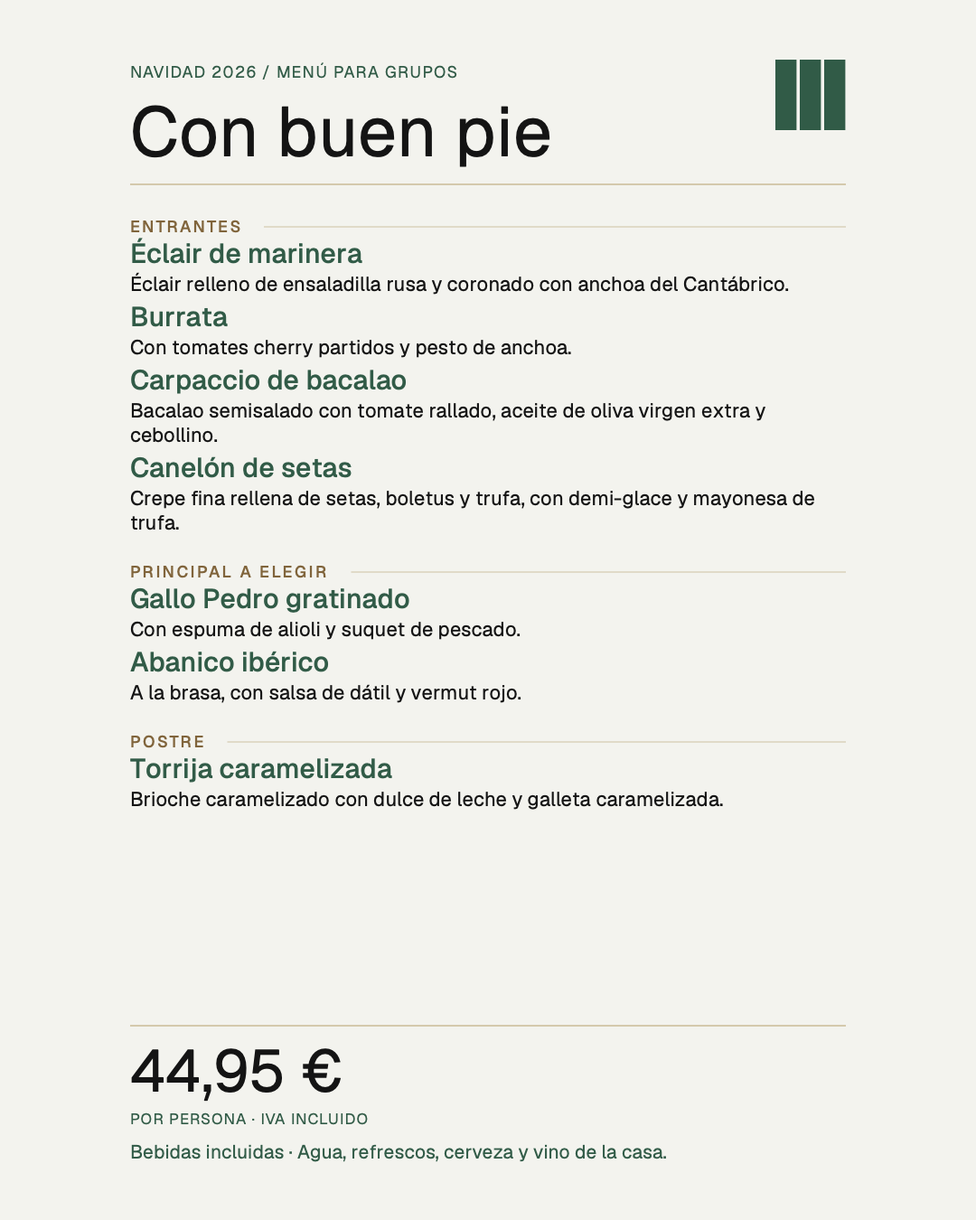
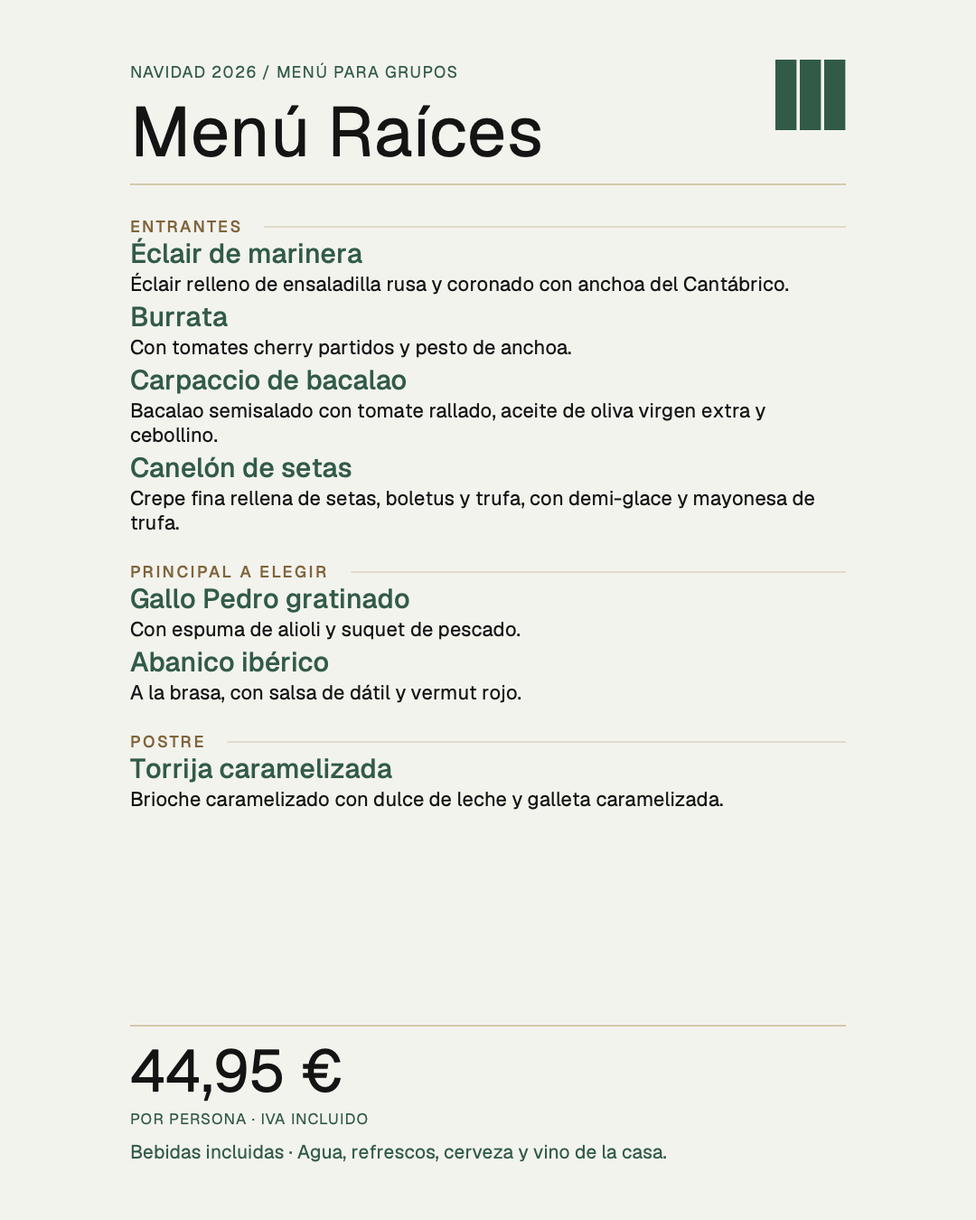
Preserve live December menus and Christmas performance during reservation release

Changed region(s): [[0.1222, 0.0622, 0.5806, 0.1556]]

diff --git a/experiencias/content.js b/experiencias/content.js
@@ -1,4 +1,4 @@
-const MENUS = {"navidad-02": {"id": "navidad-02", "title": "Con buen pie", "date": "NAVIDAD 2026 / MENÚ PARA GRUPOS", "sections": [{"title": "ENTRANTES", "dishes": [{"name": "Éclair de marinera", "description": "Éclair relleno de ensaladilla rusa y coronado con anchoa del Cantábrico."}, {"name": "Burrata", "description": "Con tomates cherry partidos y pesto de anchoa."}, {"name": "Carpaccio de bacalao", "description": "Bacalao semisalado con tomate rallado, aceite de oliva virgen extra y cebollino."}, {"name": "Canelón de setas", "description": "Crepe fina rellena de setas, boletus y trufa, con demi-glace y mayonesa de trufa."}]}, {"title": "PRINCIPAL A ELEGIR", "dishes": [{"name": "Gallo Pedro gratinado", "description": "Con espuma de alioli y suquet de pescado."}, {"name": "Abanico ibérico", "description": "A la brasa, con salsa de dátil y vermut rojo."}]}, {"title": "POSTRE", "dishes": [{"name": "Torrija caramelizada", "description": "Brioche caramelizado con dulce de leche y galleta caramelizada."}]}], "price": "44,95 €", "drinks": "Bebidas incluidas · Agua, refrescos, cerveza y vino de la casa."}, "navidad-03": {"id": "navidad-03", "title": "Un paso más", "date": "NAVIDAD 2026 / MENÚ PARA GRUPOS", "sections": [{"title": "APERITIVO DE BIENVENIDA", "dishes": [{"name": "El beso de bienvenida", "description": ""}, {"name": "Mini éclair de marinera", "description": ""}]}, {"title": "ENTRANTES", "dishes": [{"name": "Marisco hervido", "description": "Gamba blanca y quisquilla cocidas, servidas enteras."}, {"name": "Carpaccio de vaca madurada", "description": "Lomo alto laminado con cítricos, alcaparras, mostaza antigua y AOVE."}, {"name": "Burrata", "description": "Con tomates cherry partidos y pesto de anchoa."}, {"name": "Canelón de setas", "description": "Crepe fina rellena de setas, boletus y trufa, con demi-glace y mayonesa de trufa."}]}, {"title": "PRINCIPAL A ELEGIR", "dishes": [{"name": "Gallo Pedro gratinado", "description": "Con espuma de alioli y suquet de pescado."}, {"name": "Abanico ibérico", "description": "A la brasa, con salsa de dátil y vermut rojo."}]}, {"title": "POSTRE", "dishes": [{"name": "Brownie de algarroba", "description": "Con chocolate aromatizado con hoja de higuera."}]}], "price": "54,95 €", "drinks": "Bebidas incluidas · Agua, refrescos, cerveza y vino de la casa."}, "navidad-04": {"id": "navidad-04", "title": "Por todo lo alto", "date": "NAVIDAD 2026 / MENÚ PARA GRUPOS", "sections": [{"title": "APERITIVOS DE LA CASA", "dishes": [{"name": "El beso de bienvenida", "description": ""}, {"name": "Mini éclair de marinera", "description": ""}, {"name": "Nigiri de croissant", "description": ""}]}, {"title": "ENTRANTES", "dishes": [{"name": "Burrata", "description": "Con tomates cherry partidos y pesto de anchoa."}, {"name": "Carpaccio de vaca madurada", "description": "Lomo alto laminado con cítricos, alcaparras, mostaza antigua y AOVE."}, {"name": "Canelón de setas", "description": "Crepe fina rellena de setas, boletus y trufa, con demi-glace y mayonesa de trufa."}, {"name": "Erizo gratinado de marisco", "description": "Farsa cremosa de marisco gratinada en concha de erizo."}]}, {"title": "PRINCIPAL A ELEGIR", "dishes": [{"name": "Bacalao a baja temperatura", "description": "Lomo de bacalao cocinado suavemente sobre pisto de verduras de temporada."}, {"name": "Lingote de cordero", "description": "Cuello de cordero prensado sobre cuscús de calabaza, con su demi-glace y cebollitas glaseadas."}]}, {"title": "POSTRE", "dishes": [{"name": "Brownie de algarroba", "description": "Con chocolate aromatizado con hoja de higuera."}]}], "price": "64,95 €", "drinks": "Bebidas incluidas · Agua, refrescos, cerveza y vino de la casa."}, "navidad-individual": {"id": "navidad-individual", "title": "Menú degustación", "date": "DICIEMBRE / MESAS DE HASTA 6 PERSONAS", "sections": [{"title": "APERITIVOS DE LA CASA", "dishes": [{"name": "El beso de bienvenida", "description": "Paté de mejillón glaseado de piquillo sobre un chip de patata."}, {"name": "Chupachups de atún", "description": "Bocado de atún en semisalgazón y ñora, presentado en brocheta."}, {"name": "Nigiri de croissant", "description": "Croissant brioche con steak tartar de añojo, holandesa de hinojo y perlas de salmón."}]}, {"title": "LOS CUATRO PASES", "dishes": [{"name": "Canelón de setas", "description": "Crêpe fina rellena de setas, boletus y trufa, con demi-glace y mayonesa de trufa."}, {"name": "Gallo Pedro gratinado", "description": "Con espuma de alioli y suquet de pescado."}, {"name": "Abanico ibérico", "description": "A la brasa, con salsa de dátil y vermut rojo."}, {"name": "Brownie de algarroba", "description": "Con chocolate aromatizado con hoja de higuera."}]}], "price": "38,00 €", "drinks": "Bebidas no incluidas · Las bebidas se cobran aparte."}, "navidad-25-menu": {"id": "navidad-25-menu", "title": "Menú de Navidad", "date": "25 DE DICIEMBRE DE 2026", "sections": [{"title": "APERITIVOS DE LA CASA", "dishes": [{"name": "El beso de bienvenida", "description": "Mejillón y piquillo sobre chip de patata."}, {"name": "Mini éclair de marinera", "description": "Ensaladilla de merluza y anchoa."}, {"name": "Nigiri de croissant", "description": "Steak tartar, holandesa de hinojo y perlas de salmón."}]}, {"title": "MARISCO Y ENTRANTE CALIENTE", "dishes": [{"name": "Marisco hervido", "description": "Gamba blanca y quisquilla."}, {"name": "Alcachofa confitada", "description": "Sobre una base de ajo blanco, con atún en semisalazón."}]}, {"title": "EL TURRÓN SALADO", "dishes": [{"name": "Turrón de foie", "description": "Con almendra y manzana."}]}, {"title": "PUCHERO EN DOS VUELCOS", "dishes": [{"name": "Consomé de puchero con pelota", "description": ""}, {"name": "Garbanzos, carnes y verduras del puchero", "description": ""}]}, {"title": "POSTRE", "dishes": [{"name": "Brownie de algarroba", "description": "Chocolate con hoja de higuera."}]}], "price": "65,00 €", "drinks": "Bebidas incluidas · Agua, refrescos, cerveza y vino de la casa."}, "navidad-25-infantil": {"id": "navidad-25-infantil", "title": "Menú infantil", "date": "25 DE DICIEMBRE DE 2026", "sections": [{"title": "ENTRANTE FRÍO", "dishes": [{"name": "Almendras", "description": ""}, {"name": "Olivas", "description": ""}, {"name": "Patatas fritas", "description": ""}, {"name": "Jamón", "description": ""}, {"name": "Queso", "description": ""}]}, {"title": "ENTRANTE CALIENTE", "dishes": [{"name": "Calamares", "description": ""}, {"name": "Croquetas de jamón", "description": ""}, {"name": "Nuggets de pollo", "description": ""}, {"name": "Mini hamburguesas", "description": ""}]}, {"title": "POSTRE", "dishes": [{"name": "Coulant de chocolate", "description": ""}]}], "price": "28,00 €", "drinks": "Bebidas incluidas · Agua y refrescos."}, "ano-nuevo-menu": {"id": "ano-nuevo-menu", "title": "Menú de Año Nuevo", "date": "1 DE ENERO DE 2027", "sections": [{"title": "MARISCO", "dishes": [{"name": "Marisco hervido", "description": "Gamba blanca y quisquilla cocidas, servidas enteras."}]}, {"title": "ENTRANTES FRÍOS", "dishes": [{"name": "Carpaccio de bacalao", "description": "Bacalao semisalado con tomate rallado, aceite de oliva virgen extra y cebollino."}, {"name": "Ensalada de tomate y ventresca", "description": "Tomate maduro en dos cortes, lascas de ventresca, cebolla roja encurtida, alcaparras y vinagreta de sus jugos con AOVE y Jerez."}]}, {"title": "ENTRANTES CALIENTES", "dishes": [{"name": "Canelón crujiente de cordero", "description": "Cordero guisado y desmigado, envuelto en pasta filo crujiente."}, {"name": "Alcachofa confitada", "description": "Sobre una base de ajo blanco, con atún en semisalazón."}]}, {"title": "PRINCIPAL A ELEGIR", "dishes": [{"name": "Abanico ibérico o Gallo Pedro", "description": "Abanico ibérico a la brasa con salsa de dátil y vermut rojo, o Gallo Pedro gratinado con alioli y suquet."}]}, {"title": "POSTRE", "dishes": [{"name": "Flan cremoso de turrón", "description": "Flan de textura cremosa con turrón de almendra y su caramelo."}]}], "price": "50,00 €", "drinks": "Bebidas incluidas · Agua, refrescos, cerveza y vino."}, "ano-nuevo-infantil": {"id": "ano-nuevo-infantil", "title": "Menú infantil", "date": "1 DE ENERO DE 2027", "sections": [{"title": "ENTRANTE FRÍO", "dishes": [{"name": "Almendras", "description": ""}, {"name": "Olivas", "description": ""}, {"name": "Patatas fritas", "description": ""}, {"name": "Jamón", "description": ""}, {"name": "Queso", "description": ""}]}, {"title": "ENTRANTE CALIENTE", "dishes": [{"name": "Calamares", "description": ""}, {"name": "Croquetas de jamón", "description": ""}, {"name": "Nuggets de pollo", "description": ""}, {"name": "Mini hamburguesas", "description": ""}]}, {"title": "POSTRE", "dishes": [{"name": "Coulant de chocolate", "description": ""}]}], "price": "28,00 €", "drinks": "Bebidas incluidas · Agua y refrescos."}};
+const MENUS = {"navidad-02": {"id": "navidad-02", "title": "Menú Raíces", "date": "NAVIDAD 2026 / MENÚ PARA GRUPOS", "sections": [{"title": "ENTRANTES", "dishes": [{"name": "Éclair de marinera", "description": "Éclair relleno de ensaladilla rusa y coronado con anchoa del Cantábrico."}, {"name": "Burrata", "description": "Con tomates cherry partidos y pesto de anchoa."}, {"name": "Carpaccio de bacalao", "description": "Bacalao semisalado con tomate rallado, aceite de oliva virgen extra y cebollino."}, {"name": "Canelón de setas", "description": "Crepe fina rellena de setas, boletus y trufa, con demi-glace y mayonesa de trufa."}]}, {"title": "PRINCIPAL A ELEGIR", "dishes": [{"name": "Gallo Pedro gratinado", "description": "Con espuma de alioli y suquet de pescado."}, {"name": "Abanico ibérico", "description": "A la brasa, con salsa de dátil y vermut rojo."}]}, {"title": "POSTRE", "dishes": [{"name": "Torrija caramelizada", "description": "Brioche caramelizado con dulce de leche y galleta caramelizada."}]}], "price": "44,95 €", "drinks": "Bebidas incluidas · Agua, refrescos, cerveza y vino de la casa."}, "navidad-03": {"id": "navidad-03", "title": "Menú La Mesa", "date": "NAVIDAD 2026 / MENÚ PARA GRUPOS", "sections": [{"title": "APERITIVO DE BIENVENIDA", "dishes": [{"name": "El beso de bienvenida", "description": ""}, {"name": "Mini éclair de marinera", "description": ""}]}, {"title": "ENTRANTES", "dishes": [{"name": "Marisco hervido", "description": "Gamba blanca y quisquilla cocidas, servidas enteras."}, {"name": "Carpaccio de vaca madurada", "description": "Lomo alto laminado con cítricos, alcaparras, mostaza antigua y AOVE."}, {"name": "Burrata", "description": "Con tomates cherry partidos y pesto de anchoa."}, {"name": "Canelón de setas", "description": "Crepe fina rellena de setas, boletus y trufa, con demi-glace y mayonesa de trufa."}]}, {"title": "PRINCIPAL A ELEGIR", "dishes": [{"name": "Gallo Pedro gratinado", "description": "Con espuma de alioli y suquet de pescado."}, {"name": "Abanico ibérico", "description": "A la brasa, con salsa de dátil y vermut rojo."}]}, {"title": "POSTRE", "dishes": [{"name": "Brownie de algarroba", "description": "Con chocolate aromatizado con hoja de higuera."}]}], "price": "54,95 €", "drinks": "Bebidas incluidas · Agua, refrescos, cerveza y vino de la casa."}, "navidad-04": {"id": "navidad-04", "title": "Menú Brindis", "date": "NAVIDAD 2026 / MENÚ PARA GRUPOS", "sections": [{"title": "APERITIVOS DE LA CASA", "dishes": [{"name": "El beso de bienvenida", "description": ""}, {"name": "Mini éclair de marinera", "description": ""}, {"name": "Nigiri de croissant", "description": ""}]}, {"title": "ENTRANTES", "dishes": [{"name": "Burrata", "description": "Con tomates cherry partidos y pesto de anchoa."}, {"name": "Carpaccio de vaca madurada", "description": "Lomo alto laminado con cítricos, alcaparras, mostaza antigua y AOVE."}, {"name": "Canelón de setas", "description": "Crepe fina rellena de setas, boletus y trufa, con demi-glace y mayonesa de trufa."}, {"name": "Erizo gratinado de marisco", "description": "Farsa cremosa de marisco gratinada en concha de erizo."}]}, {"title": "PRINCIPAL A ELEGIR", "dishes": [{"name": "Bacalao a baja temperatura", "description": "Lomo de bacalao cocinado suavemente sobre pisto de verduras de temporada."}, {"name": "Lingote de cordero", "description": "Cuello de cordero prensado sobre cuscús de calabaza, con su demi-glace y cebollitas glaseadas."}]}, {"title": "POSTRE", "dishes": [{"name": "Brownie de algarroba", "description": "Con chocolate aromatizado con hoja de higuera."}]}], "price": "64,95 €", "drinks": "Bebidas incluidas · Agua, refrescos, cerveza y vino de la casa."}, "navidad-individual": {"id": "navidad-individual", "title": "Menú degustación", "date": "DICIEMBRE / MESAS DE HASTA 6 PERSONAS", "sections": [{"title": "APERITIVOS DE LA CASA", "dishes": [{"name": "El beso de bienvenida", "description": "Paté de mejillón glaseado de piquillo sobre un chip de patata."}, {"name": "Chupachups de atún", "description": "Bocado de atún en semisalgazón y ñora, presentado en brocheta."}, {"name": "Nigiri de croissant", "description": "Croissant brioche con steak tartar de añojo, holandesa de hinojo y perlas de salmón."}]}, {"title": "LOS CUATRO PASES", "dishes": [{"name": "Canelón de setas", "description": "Crêpe fina rellena de setas, boletus y trufa, con demi-glace y mayonesa de trufa."}, {"name": "Gallo Pedro gratinado", "description": "Con espuma de alioli y suquet de pescado."}, {"name": "Abanico ibérico", "description": "A la brasa, con salsa de dátil y vermut rojo."}, {"name": "Brownie de algarroba", "description": "Con chocolate aromatizado con hoja de higuera."}]}], "price": "38,00 €", "drinks": "Bebidas no incluidas · Las bebidas se cobran aparte."}, "navidad-25-menu": {"id": "navidad-25-menu", "title": "Menú de Navidad", "date": "25 DE DICIEMBRE DE 2026", "sections": [{"title": "APERITIVOS DE LA CASA", "dishes": [{"name": "El beso de bienvenida", "description": "Mejillón y piquillo sobre chip de patata."}, {"name": "Mini éclair de marinera", "description": "Ensaladilla de merluza y anchoa."}, {"name": "Nigiri de croissant", "description": "Steak tartar, holandesa de hinojo y perlas de salmón."}]}, {"title": "MARISCO Y ENTRANTE CALIENTE", "dishes": [{"name": "Marisco hervido", "description": "Gamba blanca y quisquilla."}, {"name": "Alcachofa confitada", "description": "Sobre una base de ajo blanco, con atún en semisalazón."}]}, {"title": "EL TURRÓN SALADO", "dishes": [{"name": "Turrón de foie", "description": "Con almendra y manzana."}]}, {"title": "PUCHERO EN DOS VUELCOS", "dishes": [{"name": "Consomé de puchero con pelota", "description": ""}, {"name": "Garbanzos, carnes y verduras del puchero", "description": ""}]}, {"title": "POSTRE", "dishes": [{"name": "Brownie de algarroba", "description": "Chocolate con hoja de higuera."}]}], "price": "65,00 €", "drinks": "Bebidas incluidas · Agua, refrescos, cerveza y vino de la casa."}, "navidad-25-infantil": {"id": "navidad-25-infantil", "title": "Menú infantil", "date": "25 DE DICIEMBRE DE 2026", "sections": [{"title": "ENTRANTE FRÍO", "dishes": [{"name": "Almendras", "description": ""}, {"name": "Olivas", "description": ""}, {"name": "Patatas fritas", "description": ""}, {"name": "Jamón", "description": ""}, {"name": "Queso", "description": ""}]}, {"title": "ENTRANTE CALIENTE", "dishes": [{"name": "Calamares", "description": ""}, {"name": "Croquetas de jamón", "description": ""}, {"name": "Nuggets de pollo", "description": ""}, {"name": "Mini hamburguesas", "description": ""}]}, {"title": "POSTRE", "dishes": [{"name": "Coulant de chocolate", "description": ""}]}], "price": "28,00 €", "drinks": "Bebidas incluidas · Agua y refrescos."}, "ano-nuevo-menu": {"id": "ano-nuevo-menu", "title": "Menú de Año Nuevo", "date": "1 DE ENERO DE 2027", "sections": [{"title": "MARISCO", "dishes": [{"name": "Marisco hervido", "description": "Gamba blanca y quisquilla cocidas, servidas enteras."}]}, {"title": "ENTRANTES FRÍOS", "dishes": [{"name": "Carpaccio de bacalao", "description": "Bacalao semisalado con tomate rallado, aceite de oliva virgen extra y cebollino."}, {"name": "Ensalada de tomate y ventresca", "description": "Tomate maduro en dos cortes, lascas de ventresca, cebolla roja encurtida, alcaparras y vinagreta de sus jugos con AOVE y Jerez."}]}, {"title": "ENTRANTES CALIENTES", "dishes": [{"name": "Canelón crujiente de cordero", "description": "Cordero guisado y desmigado, envuelto en pasta filo crujiente."}, {"name": "Alcachofa confitada", "description": "Sobre una base de ajo blanco, con atún en semisalazón."}]}, {"title": "PRINCIPAL A ELEGIR", "dishes": [{"name": "Abanico ibérico o Gallo Pedro", "description": "Abanico ibérico a la brasa con salsa de dátil y vermut rojo, o Gallo Pedro gratinado con alioli y suquet."}]}, {"title": "POSTRE", "dishes": [{"name": "Flan cremoso de turrón", "description": "Flan de textura cremosa con turrón de almendra y su caramelo."}]}], "price": "50,00 €", "drinks": "Bebidas incluidas · Agua, refrescos, cerveza y vino."}, "ano-nuevo-infantil": {"id": "ano-nuevo-infantil", "title": "Menú infantil", "date": "1 DE ENERO DE 2027", "sections": [{"title": "ENTRANTE FRÍO", "dishes": [{"name": "Almendras", "description": ""}, {"name": "Olivas", "description": ""}, {"name": "Patatas fritas", "description": ""}, {"name": "Jamón", "description": ""}, {"name": "Queso", "description": ""}]}, {"title": "ENTRANTE CALIENTE", "dishes": [{"name": "Calamares", "description": ""}, {"name": "Croquetas de jamón", "description": ""}, {"name": "Nuggets de pollo", "description": ""}, {"name": "Mini hamburguesas", "description": ""}]}, {"title": "POSTRE", "dishes": [{"name": "Coulant de chocolate", "description": ""}]}], "price": "28,00 €", "drinks": "Bebidas incluidas · Agua y refrescos."}};
 const ROUTE = [
   {
     "id": "australia",

diff --git a/experiencias/app.js b/experiencias/app.js
@@ -1,9 +1,9 @@
 'use strict';
 const $=s=>document.querySelector(s), esc=v=>String(v).replace(/[&<>"']/g,c=>({'&':'&amp;','<':'&lt;','>':'&gt;','"':'&quot;',"'":'&#39;'}[c]));
 const PLANS=[
- {id:'diciembre',date:'TODO EL MES DE DICIEMBRE',title:'Una comida<br>para juntarnos.',name:'Menús de grupo',description:'Con buen pie, Un paso más y Por todo lo alto. Tres menús para compartir y celebrar en grupo.',price:'Desde 44,95 €',note:'Por persona · IVA y bebidas incluidos',cover:'navidad-01',action:'Ver los tres menús',menus:['navidad-02','navidad-03','navidad-04'],default:'navidad-02'},
+ {id:'diciembre',date:'TODO EL MES DE DICIEMBRE',title:'Una comida<br>para juntarnos.',name:'Menús de grupo',description:'Menú Raíces, Menú La Mesa y Menú Brindis. Tres menús para compartir y celebrar en grupo.',price:'Desde 44,95 €',note:'Por persona · IVA y bebidas incluidos',cover:'navidad-01',action:'Ver los tres menús',menus:['navidad-02','navidad-03','navidad-04'],default:'navidad-02'},
  {id:'degustacion',period:'diciembre',date:'DICIEMBRE · VIERNES, SÁBADOS Y DOMINGOS',title:'Una experiencia<br>gastronómica.',name:'Menú degustación',description:'Una experiencia gastronómica para mesas de hasta seis personas. Viernes, sábados y domingos de diciembre, solo al mediodía, excepto el 25.',price:'38 €',note:'Por persona · IVA incluido · Bebidas aparte',image:'assets/temporada-degustacion.webp',cover:'navidad-01',action:'Descubrir el menú degustación',menus:['navidad-individual'],default:'navidad-individual'},
- {id:'navidad',date:'25 DE DICIEMBRE · NAVIDAD',title:'A la mesa.<br>Y un rato más.',name:'El día de Navidad',description:'Una comida de Navidad alrededor de la mesa, con nuestro puchero y menú infantil para los peques.',price:'65 €',note:'Por persona · IVA y bebidas incluidos',cover:'navidad-25-portada',action:'Ver los menús',menus:['navidad-25-menu','navidad-25-infantil'],default:'navidad-25-menu'},
+ {id:'navidad',date:'25 DE DICIEMBRE · NAVIDAD',title:'A la mesa.<br>Y un rato más.',name:'El día de Navidad',description:'Una comida de Navidad con nuestro puchero, menú infantil y la actuación de Verónica Romero con «Contigo en Navidad» después de comer.',price:'65 €',note:'Por persona · IVA y bebidas incluidos',cover:'navidad-25-portada',action:'Ver los menús',menus:['navidad-25-menu','navidad-25-infantil'],default:'show'},
  {id:'hora',date:'31 DE DICIEMBRE · HORA CERO',title:'Seis destinos.<br>Un Año Nuevo.',name:'Tardevieja · Hora Cero',description:'Australia, Japón, China, Vietnam, India y Rusia. Gastronomía, lago, barra libre, Bollywood y DJ durante el recorrido.',price:'120 €',note:'Por persona · IVA incluido · Plazas limitadas',cover:'hora-cero-01',action:'Descubrir el recorrido',menus:[],default:'route'},
  {id:'nuevo',date:'1 DE ENERO · AÑO NUEVO',title:'La primera<br>mesa del año.',name:'El día de Año Nuevo',description:'Marisco, entrantes, principal a elegir y flan de turrón. Empezamos 2027 alrededor de la mesa, también con los peques.',price:'50 €',note:'Por persona · IVA y bebidas incluidos · Agua, refrescos, cerveza y vino',cover:'ano-nuevo-portada',action:'Ver los menús',menus:['ano-nuevo-menu','ano-nuevo-infantil'],default:'ano-nuevo-menu'}
 ];
@@ -139,6 +139,7 @@ function openPlan(id, choice) {
  const options = activePlan.menus.map(key => [key, MENUS[key].title + ' · ' + MENUS[key].price]);
  if(inquiryPlanIds.includes(id))options.push(['consulta','Consultar disponibilidad']);
 
+ if (id === 'navidad') options.unshift(['show','Actuación · Verónica Romero']);
  if (id === 'hora') options.push(
    ['route','Recorrido y gastronomía'], ['video','Vídeo de Hora Cero'],
    ...ROUTE.map(stop => [stop.id, stop.country + ' · ' + stop.time]),
@@ -163,13 +164,30 @@ function menuHTML(menu) {
  ${sections}
  <p class="allergy-note">Si tenéis alguna alergia, consultadnos al reservar.</p>
  ${reservationHTML()}
- <div class="reader-tools"><a href="menus/${menu.id}.png${menu.id==='navidad-individual'?'?v=mediodia-20261108':menu.id==='ano-nuevo-menu'?'?v=bebidas-incluidas-20261109':''}" download>Descargar carta ↓</a><button data-print>Imprimir / guardar PDF ↗</button></div>
+ <div class="reader-tools"><a href="menus/${menu.id}.png${menu.id==='navidad-individual'?'?v=mediodia-20261108':menu.id==='ano-nuevo-menu'?'?v=bebidas-incluidas-20261109':['navidad-02','navidad-03','navidad-04'].includes(menu.id)?'?v=nombres-originales-20261109':''}" download>Descargar carta ↓</a><button data-print>Imprimir / guardar PDF ↗</button></div>
  </article>`;
 }
 function reservationHTML() {
  if(inquiryPlanIds.includes(activePlan.id))return `<div class="leaf-reserve">${bookingActions(activePlan.id)}<p>Para más info y reservas · Cuéntanos la fecha, el turno y vuestro menú.</p></div>`;
  const message = 'Hola, me gustaría consultar disponibilidad para ' + activePlan.name + '.';
  return `<div class="leaf-reserve">${bookingActions(activePlan.id)}<p>Para más info y reservas</p><a href="https://wa.me/34691499985?text=${encodeURIComponent(message)}" target="_blank" rel="noopener">Escribir por WhatsApp ↗</a><a href="tel:+34691499985">Llamar al 691 499 985</a></div>`;
+}
+function showHTML() {
+ return `<article class="performance-page">
+  <p class="eyebrow">ACTUACIÓN NAVIDEÑA</p>
+  <h3>Verónica Romero</h3>
+  <div class="performance-program">
+   <div class="performance-times">
+    <p>Sobre las <strong>17:00</strong></p>
+    <p>Duración aproximada <strong>30 minutos</strong></p>
+    <p>Para amenizar la sobremesa, Verónica Romero nos acompañará con su espectáculo «Contigo en Navidad». Una ocasión para celebrar la Navidad juntos y disfrutar de un día especial con música en directo.</p>
+   </div>
+   <figure class="performance-clip">
+    <video controls playsinline preload="metadata" poster="assets/veronica-video-poster.jpg" src="assets/veronica-contigo-navidad.mp4?v=veronica-20261109" aria-label="Fragmento de Contigo en Navidad de Verónica Romero"></video>
+    <figcaption>Vídeo de @errebeene · @veronica_romero_vero</figcaption>
+   </figure>
+  </div>
+ </article>${reservationHTML()}`;
 }
 function routeHTML() {
  const stops = ROUTE.map(stop => `<button data-stop="${stop.id}">
@@ -212,13 +230,14 @@ function selectChoice(id) {
  $('#leaf-nav [data-book="prev"]').disabled = index === 0;
  $('#leaf-nav [data-book="next"]').disabled = index === count - 1;
  $('.book-counter').textContent = (index + 1) + ' / ' + count;
- const isPerformance = false;
+ const isPerformance = activePlan.id === 'navidad' && id === 'show';
  $('#dialog-heading').textContent = activePlan.name;
  const photo = $('#reader-photo');
  photo.parentElement.classList.toggle('single-cover', isPerformance);
  photo.dataset.scene = isPerformance ? 'show' : activePlan.id;
- photo.src = (activePlan.image||`assets/temporada-${activePlan.id}.webp`);
- photo.alt = sceneDescriptions[activePlan.id];
+ photo.src = isPerformance ? 'assets/veronica-retrato-sin-texto.jpg?v=veronica-limpia-20261109' : (activePlan.image||`assets/temporada-${activePlan.id}.webp`);
+ photo.alt = isPerformance ? 'Verónica Romero · Contigo en Navidad' : sceneDescriptions[activePlan.id];
+ if(isPerformance)$('#dialog-heading').textContent = 'Verónica Romero';
  const stop = activePlan.id === 'hora' && ROUTE.find(item => item.id === id);
  photo.parentElement.classList.toggle('country-cover', Boolean(stop));
  $('#dialog-date').textContent = activePlan.date;
@@ -230,6 +249,7 @@ function selectChoice(id) {
  }
  else if (id === 'reservas') view.innerHTML = routeBookingHTML();
 
+ else if (id === 'show' && activePlan.id === 'navidad') view.innerHTML = showHTML();
  else if (id === 'consulta') {view.innerHTML=groupInquiryHTML();bindGroupInquiry();}
  else if (id === 'route') view.innerHTML = routeHTML();
  else if (id === 'video') view.innerHTML = `<article class="route-intro"><p class="eyebrow">31 DE DICIEMBRE / LA PERIGALLA</p><h3>Esto es Hora Cero.</h3><video controls playsinline preload="none" poster="assets/hora-cero-01.jpg" src="assets/hora-cero-final-uvas.mp4?v=final-uvas-20261109" aria-label="Presentación de Hora Cero"></video></article>${reservationHTML()}`;

diff --git a/experiencias/index.html b/experiencias/index.html
@@ -1,5 +1,5 @@
 <!doctype html>
-<html lang="es"><head><meta charset="utf-8"><meta name="viewport" content="width=device-width,initial-scale=1"><meta name="description" content="Menús de diciembre, Navidad, Hora Cero y Año Nuevo en Finca La Llaguna. Consulta cada propuesta y sus menús."><title>Diciembre en Perigallo · Experiencias abiertas al público</title><link rel="stylesheet" href="style.css?v=degustacion-calendario-20261108"><script defer src="content.js?v=bebidas-ano-nuevo-20261109"></script><script defer src="app.js?v=reserva-unica-20261110"></script><meta name="robots" content="index,follow"><link rel="stylesheet" href="/assets/css/season-integration.css"><script defer src="/journey.js"></script><link rel="canonical" href="https://perigallo.com/experiencias/"><link rel="stylesheet" href="/assets/css/experience-archive.css?v=diciembre-20261108"><link rel="icon" href="/favicon.ico?v=20261109-blanco-barras" sizes="16x16 32x32 48x48">
+<html lang="es"><head><meta charset="utf-8"><meta name="viewport" content="width=device-width,initial-scale=1"><meta name="description" content="Menús de diciembre, Navidad, Hora Cero y Año Nuevo en Finca La Llaguna. Consulta cada propuesta y sus menús."><title>Diciembre en Perigallo · Experiencias abiertas al público</title><link rel="stylesheet" href="style.css?v=veronica-limpia-20261109"><script defer src="content.js?v=nombres-originales-20261109"></script><script defer src="app.js?v=reserva-unica-20261110"></script><meta name="robots" content="index,follow"><link rel="stylesheet" href="/assets/css/season-integration.css"><script defer src="/journey.js"></script><link rel="canonical" href="https://perigallo.com/experiencias/"><link rel="stylesheet" href="/assets/css/experience-archive.css?v=diciembre-20261108"><link rel="icon" href="/favicon.ico?v=20261109-blanco-barras" sizes="16x16 32x32 48x48">
 <link rel="icon" href="/assets/icons/favicon-32.png?v=20261109-blanco-barras" type="image/png" sizes="32x32">
 <link rel="icon" href="/favicon.svg?v=20261109-blanco-barras" type="image/svg+xml" sizes="any">
 <link rel="apple-touch-icon" href="/apple-touch-icon.png?v=20261109-blanco-barras" sizes="180x180">

diff --git a/experiencias/style.css b/experiencias/style.css
@@ -204,3 +204,5 @@ dialog{border:0;padding:0;background:var(--paper);color:var(--ink);width:min(126
 @media(max-width:500px){.tasting-calendar-field{grid-row:auto}.tasting-calendar{max-width:370px;width:100%;box-sizing:border-box}}
 
 .tasting-calendar button[aria-pressed="true"]:hover{background:#3c5142;border-color:#3c5142}
+
+.performance-program{display:grid;gap:24px}.performance-times p{margin:0 0 14px;line-height:1.65}.performance-clip{margin:0}.performance-clip video{display:block;width:100%;max-width:380px;max-height:68vh;margin:auto;background:#141414;object-fit:contain}.performance-clip figcaption{margin-top:12px;font-size:11px;line-height:1.5;color:#62655c}
